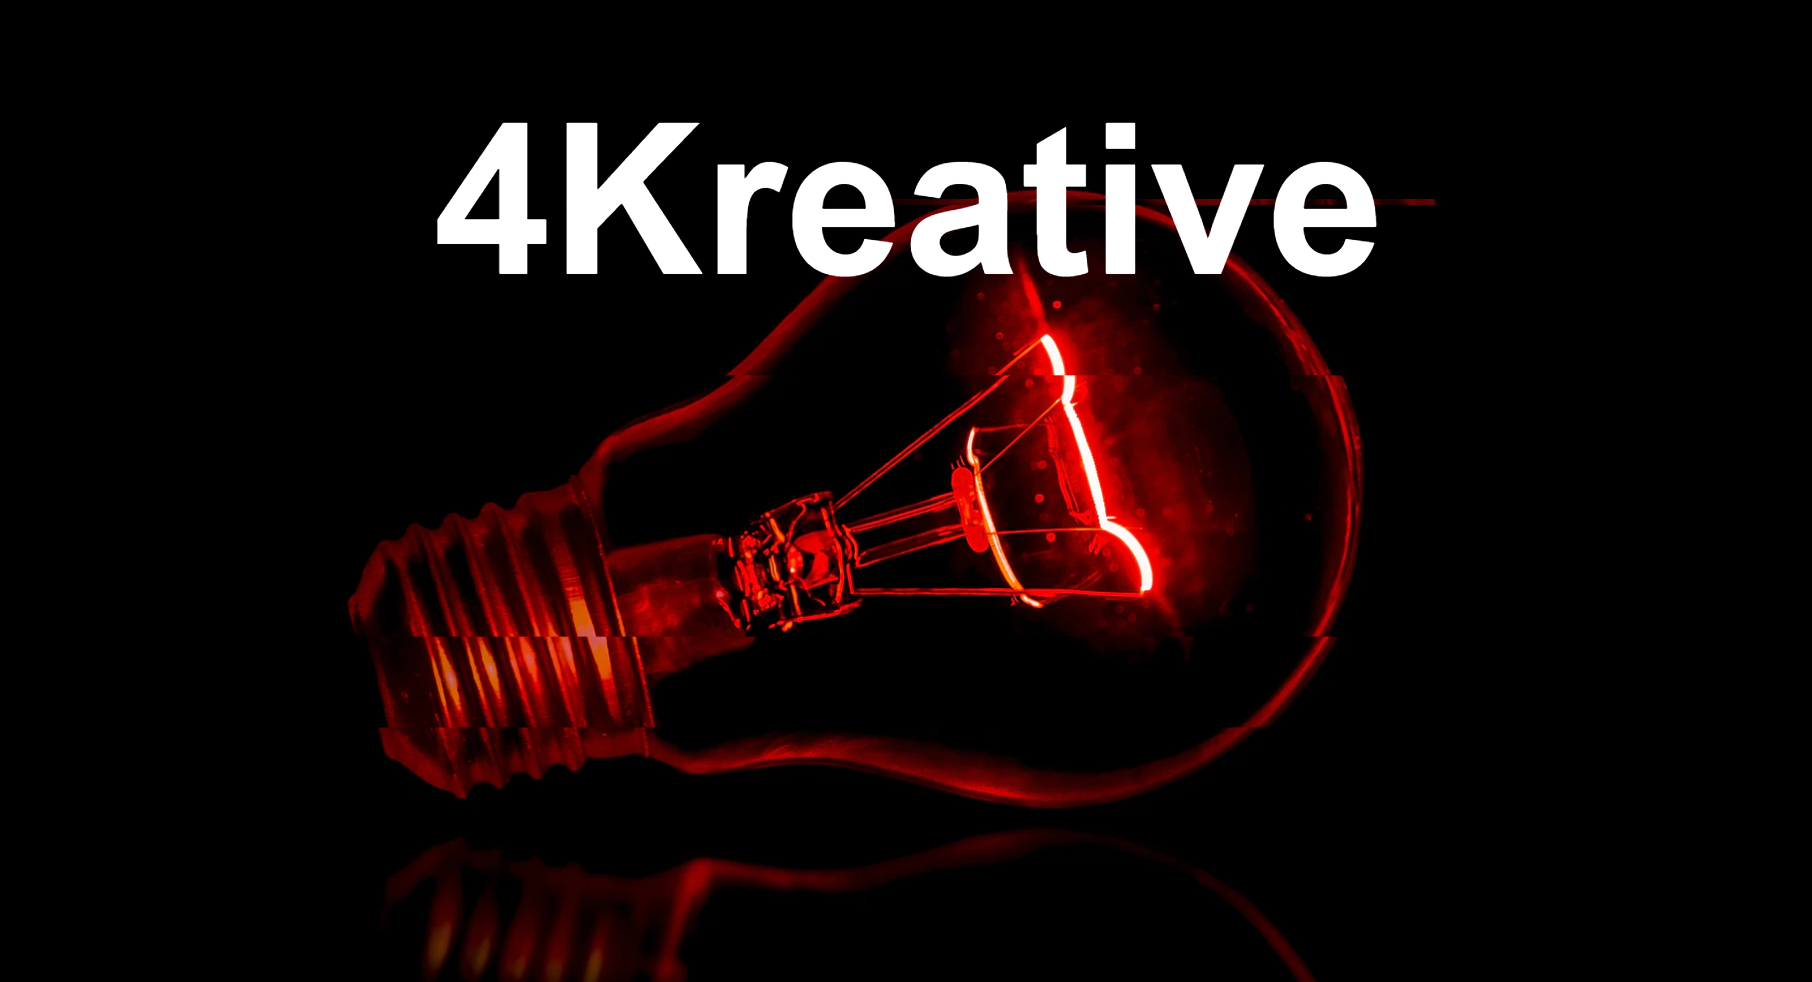
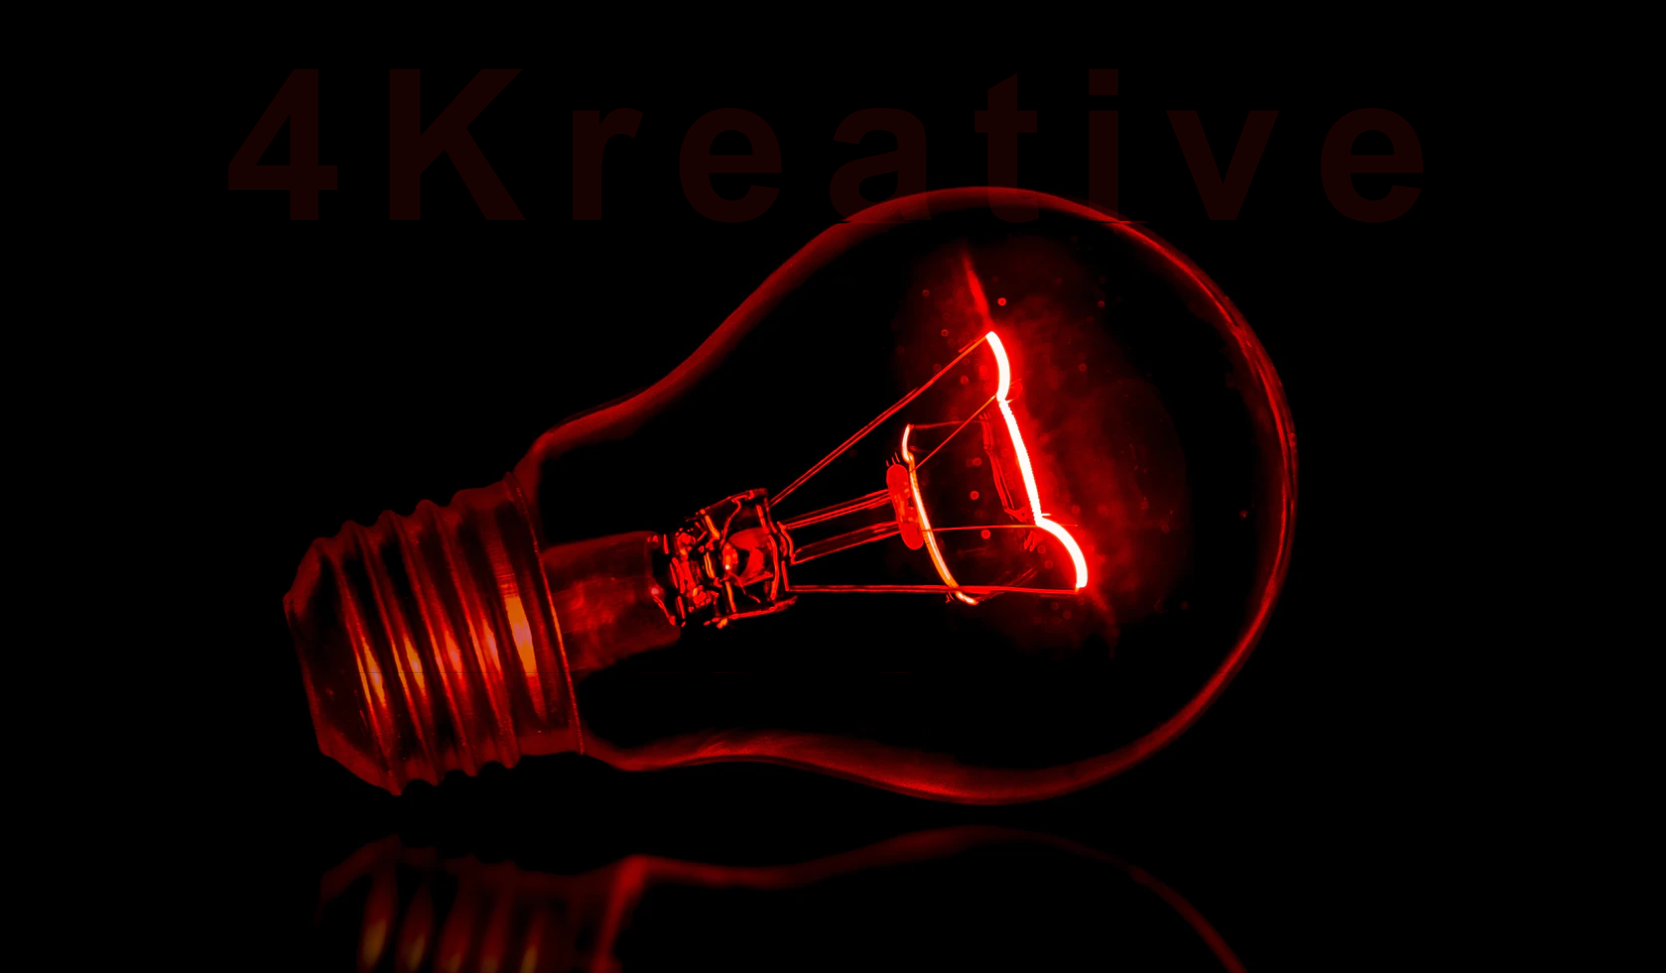
updated image and colors

Changed region(s): [[0.1561, 0.1233, 0.7803, 0.8941], [0.1873, 0.8633, 0.5306, 1.0], [0.6555, 0.8941, 0.7491, 1.0]]

diff --git a/CSS/affects/glitch/glitchHomepage/style.css b/CSS/affects/glitch/glitchHomepage/style.css
@@ -8,7 +8,7 @@
   --glitch-height: 100vh;
   --gap-horizontal: 10px;
   --gap-vertical: 5px;
-  --color-title: rgba(238, 11, 11, 0.1);
+  --color-title: rgba(238, 11, 11, 0.2);
   --time-anim: 4s;
   --delay-anim: 2s;
   --blend-mode-1: none;
@@ -78,9 +78,6 @@
 
 .glitch__img:nth-child(n + 2) {
   opacity: 0;
-}
-
-.glitch__img:nth-child(n + 2) {
   animation-duration: var(--time-anim);
   animation-delay: var(--delay-anim);
   animation-timing-function: linear;
